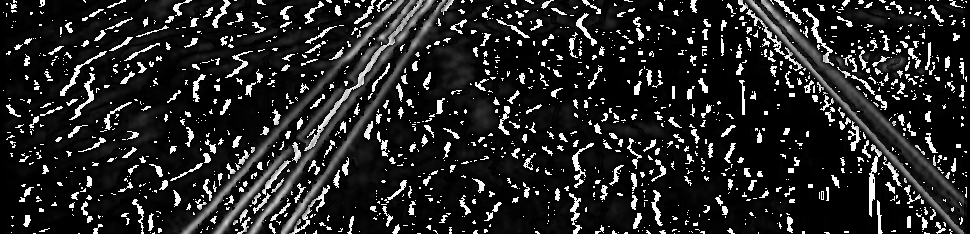
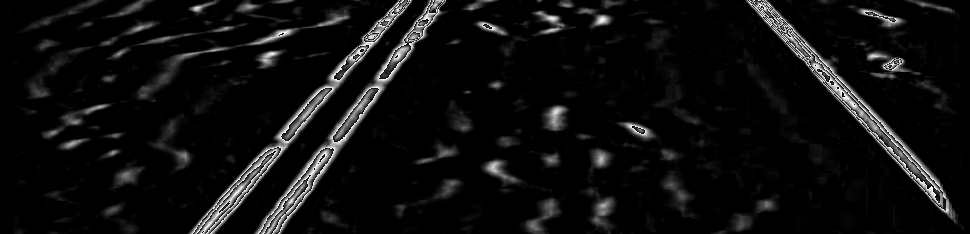
Adicionando operações morfológicas

diff --git a/image-processing/image-processing.py b/image-processing/image-processing.py
@@ -1,16 +1,32 @@
 import cv2
 import numpy as np
 
-s = 2
+s = 10
 
 def new_value(image, row, col):
-	temp = 0
+	new_intensity = 0
+	intensity = image[row,col]
 
 	for i in range(1, s+1, 1):
-		print(row, col, col-3*i,col+3*i, i)
-		temp = temp + min(max(image[row,col]- (image[row,col-(3*i if col-3*i >=0 else 0)]), 0), max(image[row,col]- (image[row,col+(3*i if col+3*i < width else 0)]), 0))
-		#print (temp, i)
-	return temp
+		#print(row, col, col-3*i,col+3*i, i)
+		#print(str(image[row][col]) + " -- " + str(temp))
+		#print (str(image[row,col-(3*i if (col-3*i >= 0) else 0)]) + " // " + str(image[row,col+(3*i if (col+3*i < width) else 0)]))
+		#print("MIN " + str(min(max(image[row,col]- (image[row,col-(3*i if (col-3*i >= 0) else 0)]), 0), max(image[row,col]- (image[row,col+(3*i if (col+3*i < width) else 0)]), 0))))
+		#print("FIRST CALC: " + str(image[row,col]- (image[row,col-(3*i if (col-3*i >= 0) else 0)])))
+		#print("SECOND CALC: " + str(image[row,col]- (image[row,col+(3*i if (col+3*i < width) else 0)])))
+
+		l3i = image[row,col-(3*i if (col-3*i >= 0) else 0)]
+		r3i = image[row,col+(3*i if (col+3*i < width) else 0)]
+		
+		#if(intensity < l3i):
+		#	l3i = 0
+
+		#if(intensity < r3i):
+		#	r3i = 0
+
+		new_intensity = new_intensity + min(max(int(intensity)- int(l3i) , 0), max(int(intensity)- int(r3i), 0))
+
+	return new_intensity
 
 
 lane_img = cv2.imread("lane-article.png") #ler imagem do disco
@@ -30,8 +46,13 @@ for r in range(height):
 cv2.imwrite("new_image.png", new_image)
 #cv2.imshow("teste", new_image)
 _, otsu_image  = cv2.threshold(new_image, 0, 255, cv2.THRESH_BINARY+cv2.THRESH_OTSU)
-print(otsu_image)
-#cv2.imwrite("new_otsu.png", otsu_image)
-cv2.imshow("OTSU", otsu_image)
+
+kernel = cv2.getStructuringElement(cv2.MORPH_RECT,(4,4))
+
+closing = cv2.morphologyEx(otsu_image, cv2.MORPH_CLOSE, kernel)
+
+#print(otsu_image)
+cv2.imwrite("new_otsu.png", closing)
+cv2.imshow("OTSU", closing)
 cv2.waitKey(0)
 cv2.destroyAllWindows()
